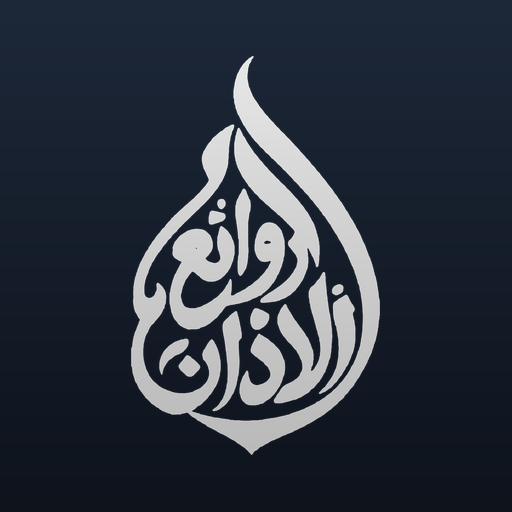
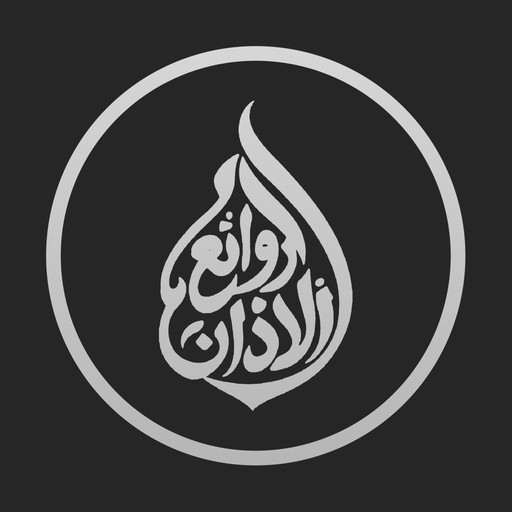
اعتماد الشعار الفضي الجديد بالدائرة وأيقونة التطبيق الداكنة
Claude-Session: https://claude.ai/code/session_01Sg6xyJ3bULhR6SsNFLbq6r

Changed region(s): [[0.0625, 0.0625, 0.9375, 0.9375]]

diff --git a/app/src/main/assets/www/index.html b/app/src/main/assets/www/index.html
@@ -61,6 +61,7 @@ body{font-family:"Cairo",Tahoma,sans-serif;color:#fff}
 .emb{border-radius:50%;display:flex;align-items:center;justify-content:center;flex:none;
   background:radial-gradient(circle,rgba(255,255,255,.16) 0,rgba(255,255,255,.06) 58%,rgba(255,255,255,0) 71%);box-shadow:inset 0 0 0 2px rgba(255,255,255,.07)}
 .elogo{height:76%;object-fit:contain;opacity:var(--logoop,1);filter:drop-shadow(0 6px 14px rgba(0,0,0,.45))}
+.elogo[src$="logo-silver.png"]{height:100%;filter:drop-shadow(0 4px 10px rgba(0,0,0,.4))}
 .center{position:relative;display:flex;align-items:center;justify-content:center;flex:none}
 .cpan{display:flex;flex-direction:column;align-items:center}
 .clk{display:flex;direction:ltr;align-items:center;gap:26px}
@@ -680,12 +681,12 @@ html[data-rot="270"] #ui{transform:translate(-50%,-50%) rotate(270deg)}
 <div id="set" hidden></div>
 <div id="toast" role="status" hidden></div>
 </div>
-<script charset="utf-8" src="compat.js?v=2610201447"></script>
-<script charset="utf-8" src="bg/removed.js?v=2610201447"></script>
-<script charset="utf-8" src="data.js?v=2610201447"></script>
-<script charset="utf-8" src="i18n.js?v=2610201447"></script>
-<script charset="utf-8" src="app.js?v=2610201447"></script>
-<script charset="utf-8" src="license.js?v=2610201447"></script>
-<script charset="utf-8" src="remote.js?v=2610201447"></script>
-<script charset="utf-8" src="offline.js?v=2610201447"></script>
-<script charset="utf-8" src="settings.js?v=2610201447"></script>
+<script charset="utf-8" src="compat.js?v=2610201601"></script>
+<script charset="utf-8" src="bg/removed.js?v=2610201601"></script>
+<script charset="utf-8" src="data.js?v=2610201601"></script>
+<script charset="utf-8" src="i18n.js?v=2610201601"></script>
+<script charset="utf-8" src="app.js?v=2610201601"></script>
+<script charset="utf-8" src="license.js?v=2610201601"></script>
+<script charset="utf-8" src="remote.js?v=2610201601"></script>
+<script charset="utf-8" src="offline.js?v=2610201601"></script>
+<script charset="utf-8" src="settings.js?v=2610201601"></script>
